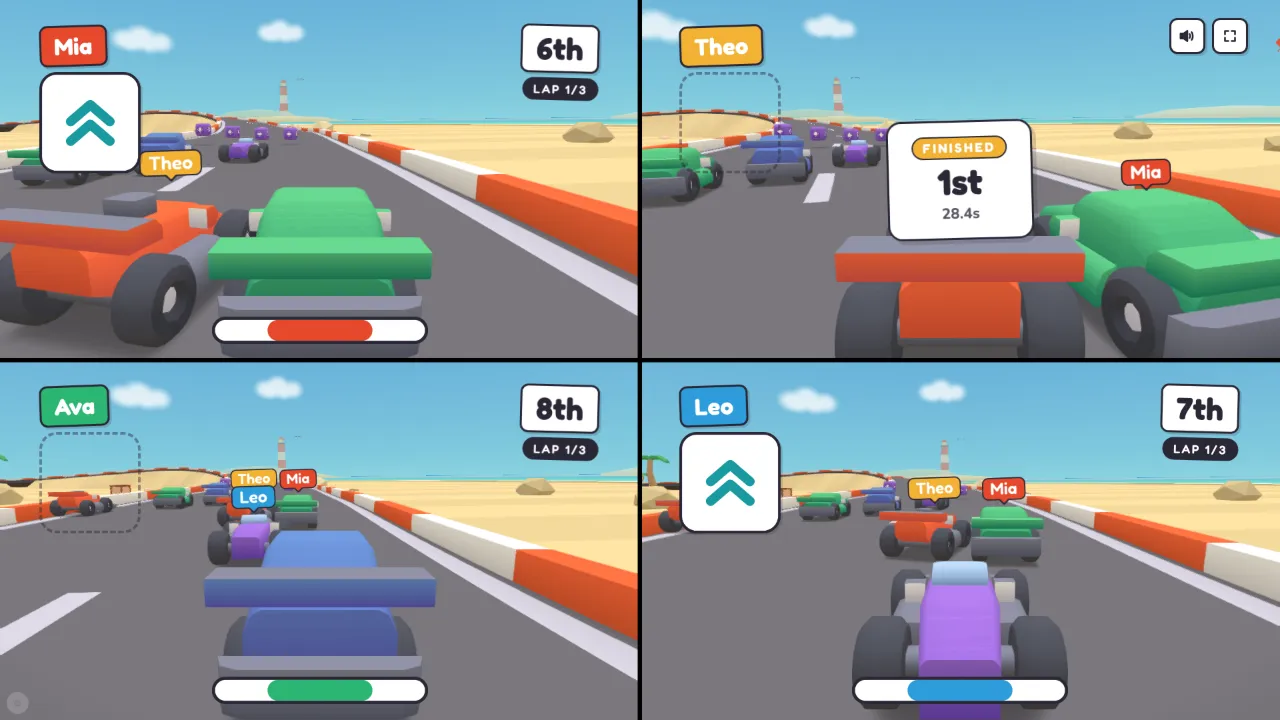
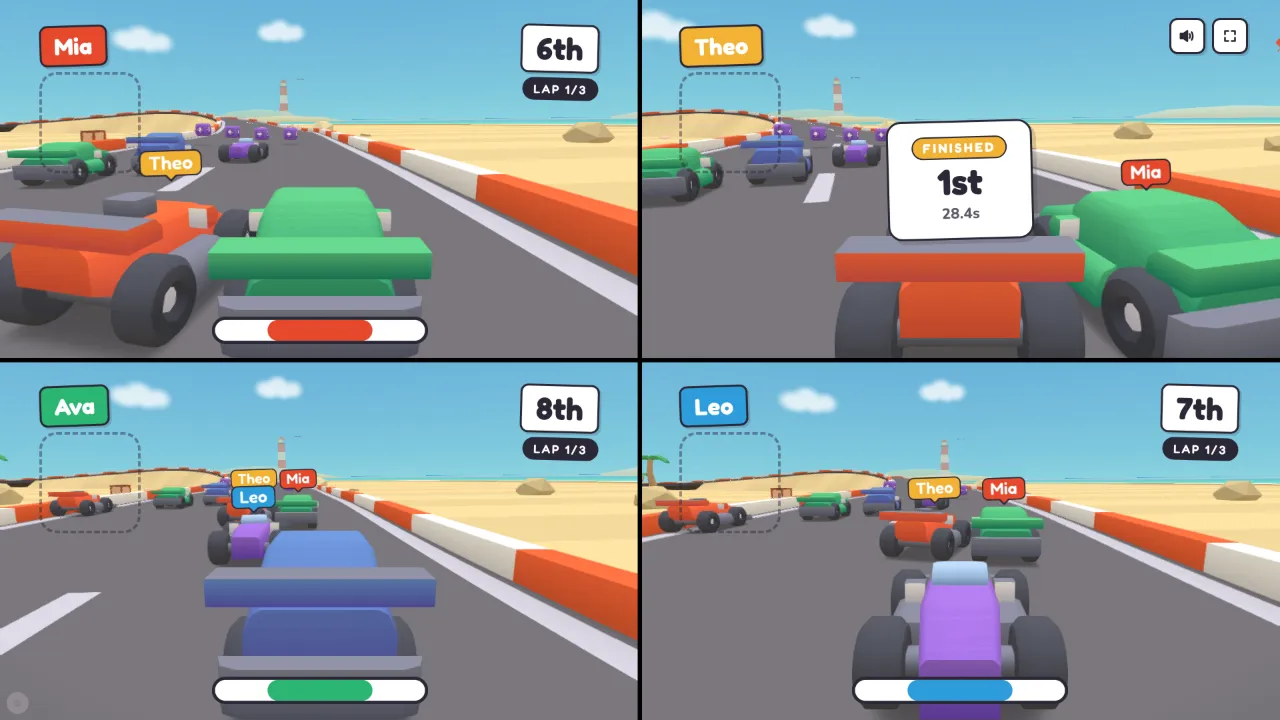
fix(gallery): stop dressing the frozen previews with fake items
The web's reconnect and finished previews painted held items from a
livery-keyed table onto the HUD, which the TV harnesses never did, so the
same card showed a boost on the web and an empty slot on both TVs. The
cell now shows what the sim holds, as every other card does.

Claude-Session: https://claude.ai/code/session_0189bVC2E11FwKEihn7zsKzw

Changed region(s): [[0.5312, 0.5806, 0.625, 0.7639], [0.0312, 0.0917, 0.125, 0.2444]]

diff --git a/public/display/TestHarness.js b/public/display/TestHarness.js
@@ -44,10 +44,6 @@ const countdownBeat = (n) => ({ n, slap: n > 0, go: n === 0 });
 const COUNTDOWN_STILL = { n: 3, slap: false, go: false };
 
 const FAKE_NAMES = ['Mia', 'Theo', 'Ava', 'Leo', 'Zoe', 'Max', 'Ivy', 'Sam'];
-// Held items per slot for the frozen previews (reconnect / finished) so the cell
-// item indicator shows populated — a mix of boost/banana with some empty slots,
-// rather than a field of empty squares. null = that slot is carrying nothing.
-const PREVIEW_ITEMS = ['boost', 'banana', null, 'boost', 'banana', null, 'boost', null];
 // A per-car preview fact, keyed by CAR ID. A car id is a SCALAR that may be a
 // number or a string — the CPU fill's are 'ai-0'… (race_flow's aiPrefix) — so
 // nothing on this page may index an array with one or do arithmetic on one.
@@ -56,17 +52,6 @@ const PREVIEW_ITEMS = ['boost', 'banana', null, 'boost', 'banana', null, 'boost'
 // colors[NaN] for every bot, which writes the fill as the literal "undefined"
 // and paints the CPU dots black.
 const byCar = (field, pick) => new Map(field.map((f, i) => [f.peerIndex, pick(f, i)]));
-// Frozen previews only. The native sim has no giveItem staging hook, and a frozen sim
-// would never spend the item anyway — so we dress the snapshot cars on their way to
-// setCarHud (a fresh, caller-owned object per getSnapshot) instead of the sim.
-// The SLOT is the seat's livery index, not the car's id and not its place on the
-// grid: the launch hands the field back in GRID order with the humans at the
-// back, so dressing by array position would deal the items to different cells
-// every time the field size changed.
-const dressItems = (cars, field) => {
-  const held = byCar(field, (f) => PREVIEW_ITEMS[f.colorIndex]);
-  for (const c of cars) c.item = held.get(c.id) || null;
-};
 
 // Bare mode has no session layer to fire a raceEnd, so the endless previews read the
 // engine's own `raceOver` rule (finishedOrder >= cars) straight off the snapshot.
@@ -1389,9 +1374,7 @@ export function runDisplayScenario(opts, ctx) {
       // its split-screen cell — exactly as it does live while someone reconnects
       // (the car isn't forfeited until the grace window elapses).
       for (let t = 0; t < 90; t++) engine.update(33);
-      const rcCars = engine.getSnapshot().cars;
-      dressItems(rcCars, field); // populate the cell item slots so the preview isn't all empty
-      for (const c of rcCars) scene.setCarHud(c.id, c);
+      for (const c of engine.getSnapshot().cars) scene.setCarHud(c.id, c);
       scene.hold(true);
       // Fake a dropped racer: the last filled slot is reconnecting. Its car keeps
       // its cell; the reconnect QR is centred in that cell (the renderer positions
@@ -1414,9 +1397,7 @@ export function runDisplayScenario(opts, ctx) {
         .reduce((a, b) => (a.position <= b.position ? a : b)).id;
       // Promote the finisher to P1 at the winning time the boards show; the rest keep racing.
       engine.forceFinish(leadId, previewBoard('results', track.trackId, players, seedOpt.seed ?? 1).order[0].time);
-      const fnCars = engine.getSnapshot().cars;
-      dressItems(fnCars, field); // the still-racing cells carry items (setCarHud clears the finisher's own slot)
-      for (const c of fnCars) scene.setCarHud(c.id, c);
+      for (const c of engine.getSnapshot().cars) scene.setCarHud(c.id, c);
       scene.hold(true);
     } else if (kind === 'results' || kind === 'intermission' || kind === 'podium') {
       // Freeze the grid behind the board. Both kinds of board — a single race
